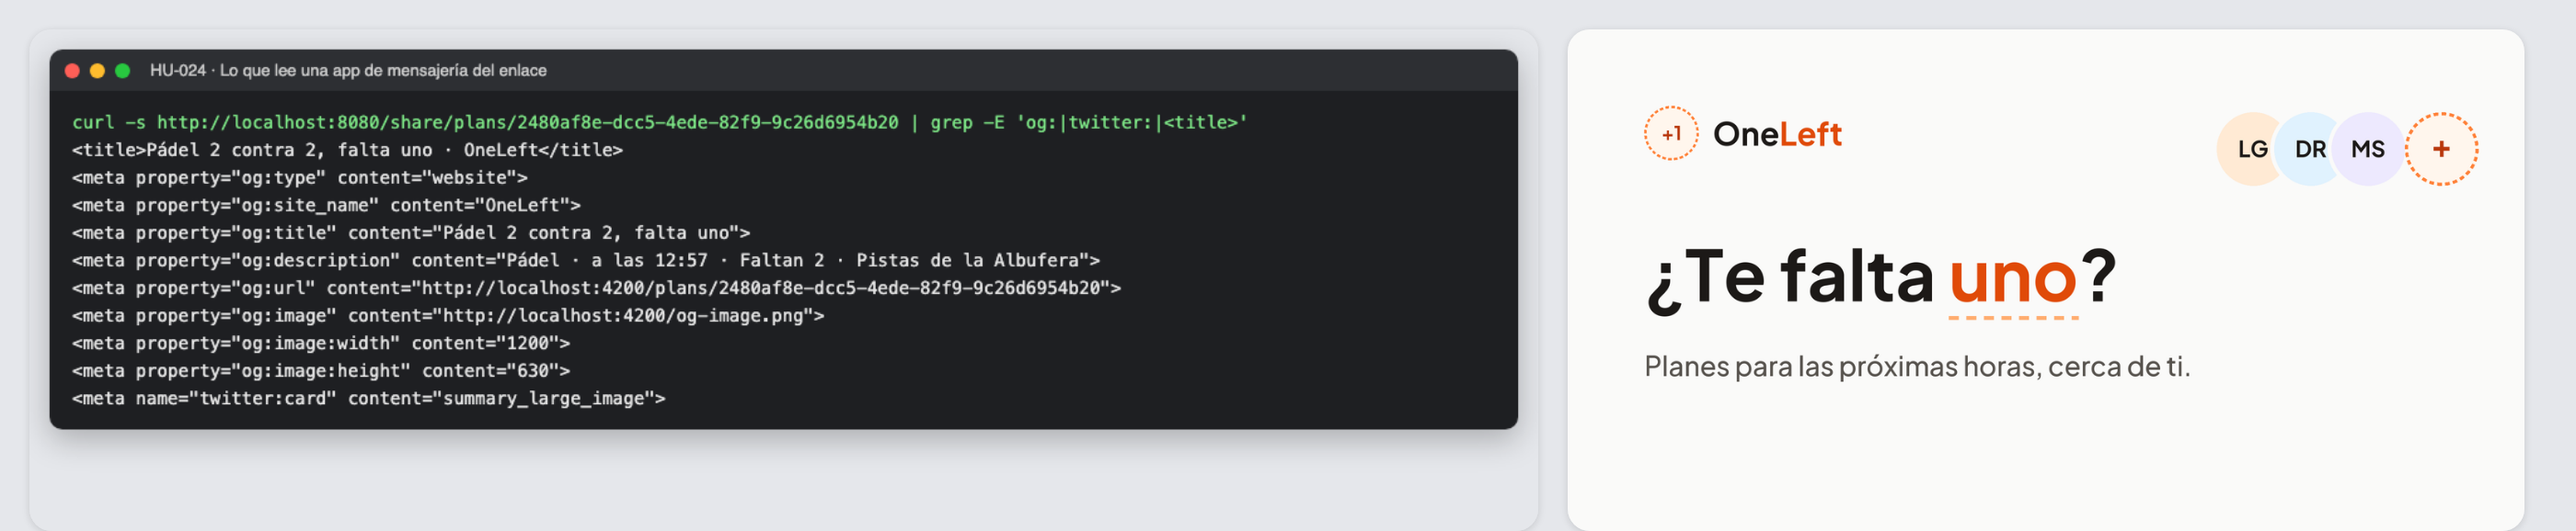
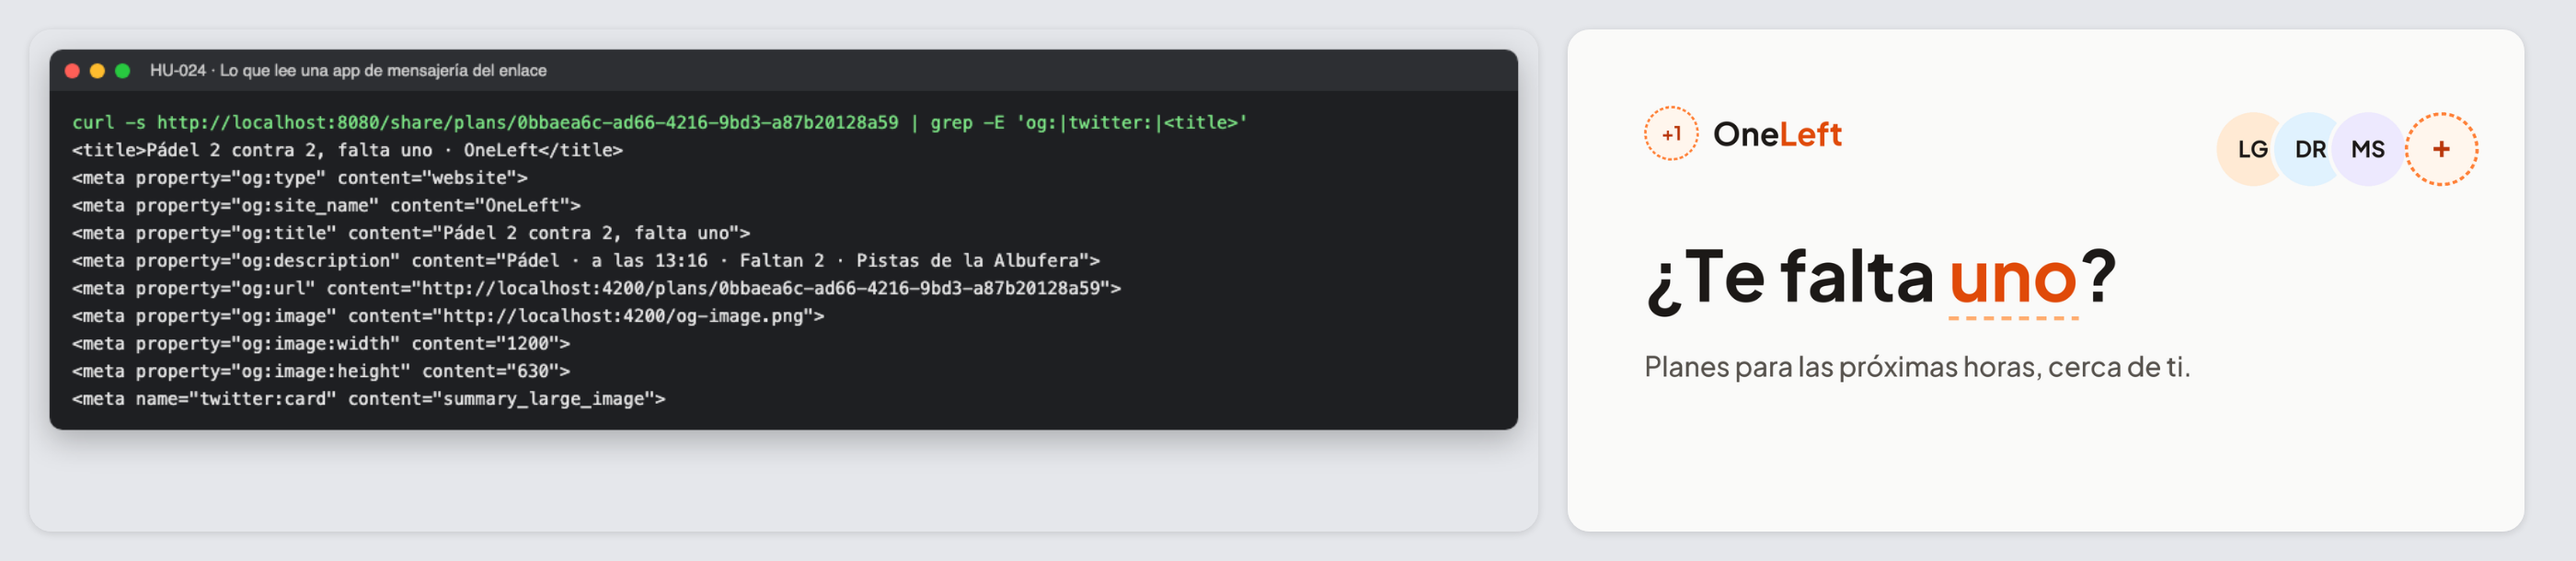
docs: captures without the PrimeUI license notice #46

diff --git a/proceso/17-rediseno-y-paginas-de-acceso.md b/proceso/17-rediseno-y-paginas-de-acceso.md
@@ -82,7 +82,11 @@ prohíbe eliminar sus mecanismos de licencia. Hace falta una clave de la *Commun
 estudiantes). Queda preparado:
 
 - `npm start` y `npm run build` la leen de `PRIMEUI_LICENSE` o de un `.env` ignorado por Git (PR #45).
-- La CI la lee del secreto con el mismo nombre, que todavía no existe en el repositorio.
+- La CI la lee del secreto con el mismo nombre.
+
+**Actualización (29/09/2026, docs#46):** la autora obtuvo la *Community License* (tipo *dev*, válida hasta el
+29/09/2027) y la configuró en el `.env` local y en el secreto `PRIMEUI_LICENSE` de `oneleft-frontend`. Las capturas
+de HU-023 (figura 90) y HU-024 (figuras 94 y 95) se repitieron ya sin el aviso; las anteriores lo conservan.
 
 ## 6. Incidencias
 

diff --git a/proceso/20-hu024-compartir-enlace.md b/proceso/20-hu024-compartir-enlace.md
@@ -68,6 +68,4 @@ y el lugar, y la imagen `og-image.png` (1200 × 630) que aparece en la vista pre
 - **E2E contra una compilación antigua (otra vez).** Los E2E sirven `dist/`: tras cambiar una plantilla hay que
   recompilar (`npm run build -- --configuration development`) antes de lanzarlos. Ya estaba anotado en la
   [entrada 18](18-hu023-salir-y-lista-de-espera.md).
-- **Aviso «Invalid PrimeUI License» en las capturas.** La compilación local no tiene clave de PrimeUI (se inyecta con
-  `--define PRIMEUI_LICENSE` desde un `.env` que no está en el repositorio). No afecta al funcionamiento.
 - **Abrir el enlace en la app Android** (App Links) queda para frontend#3, con el resto de la app móvil.
